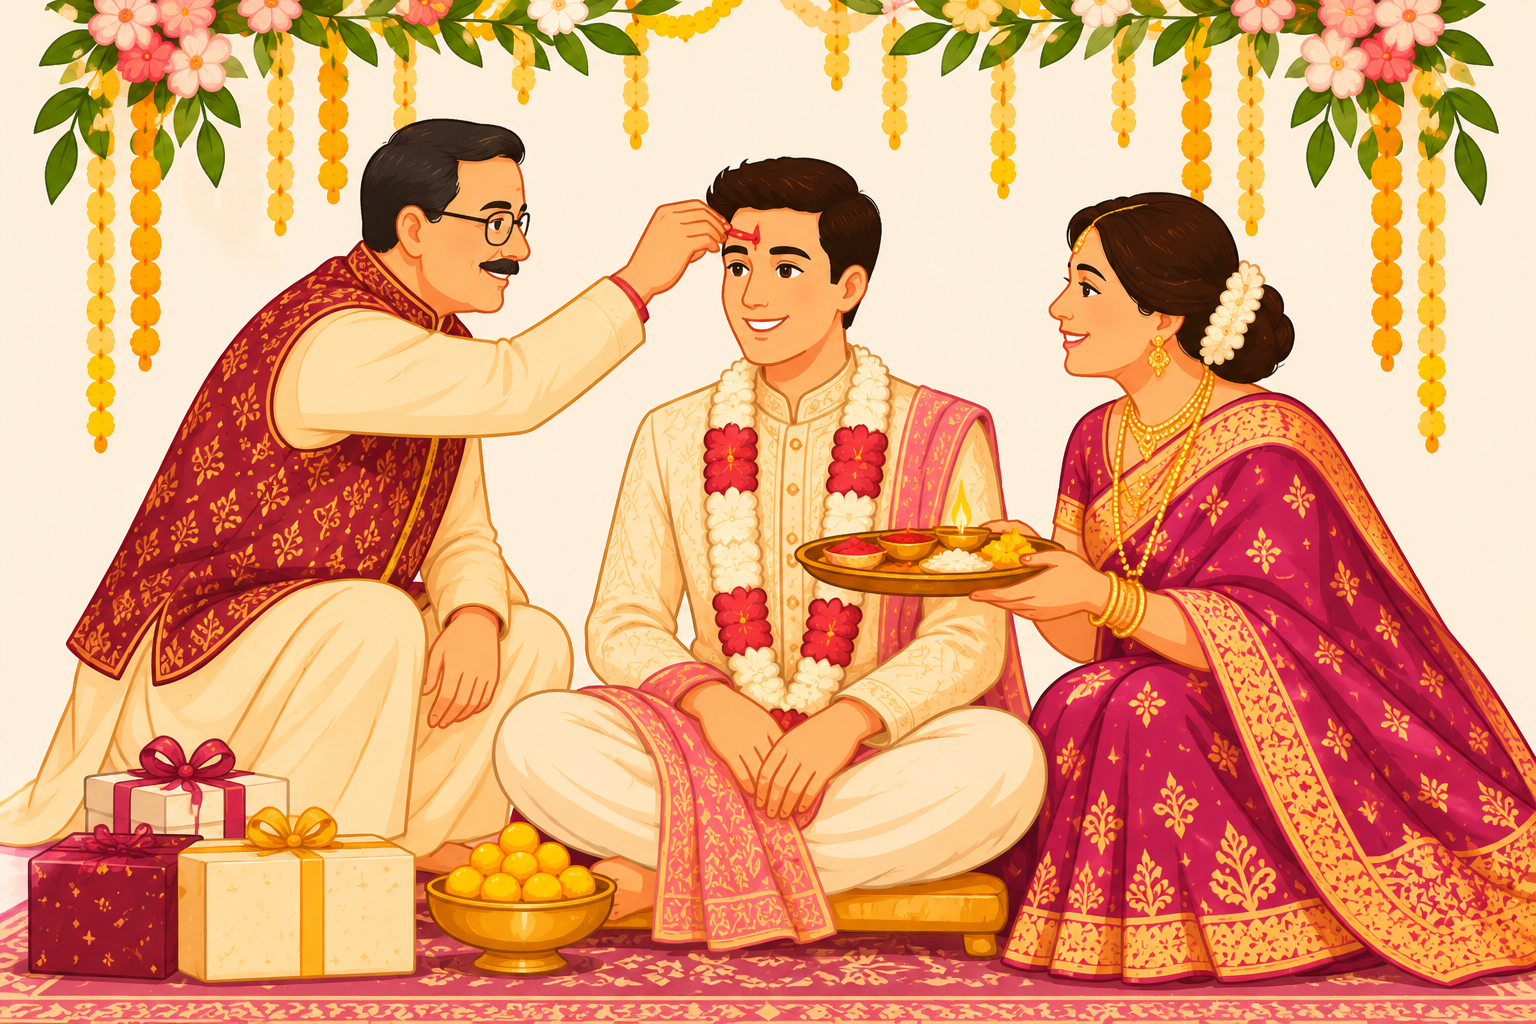
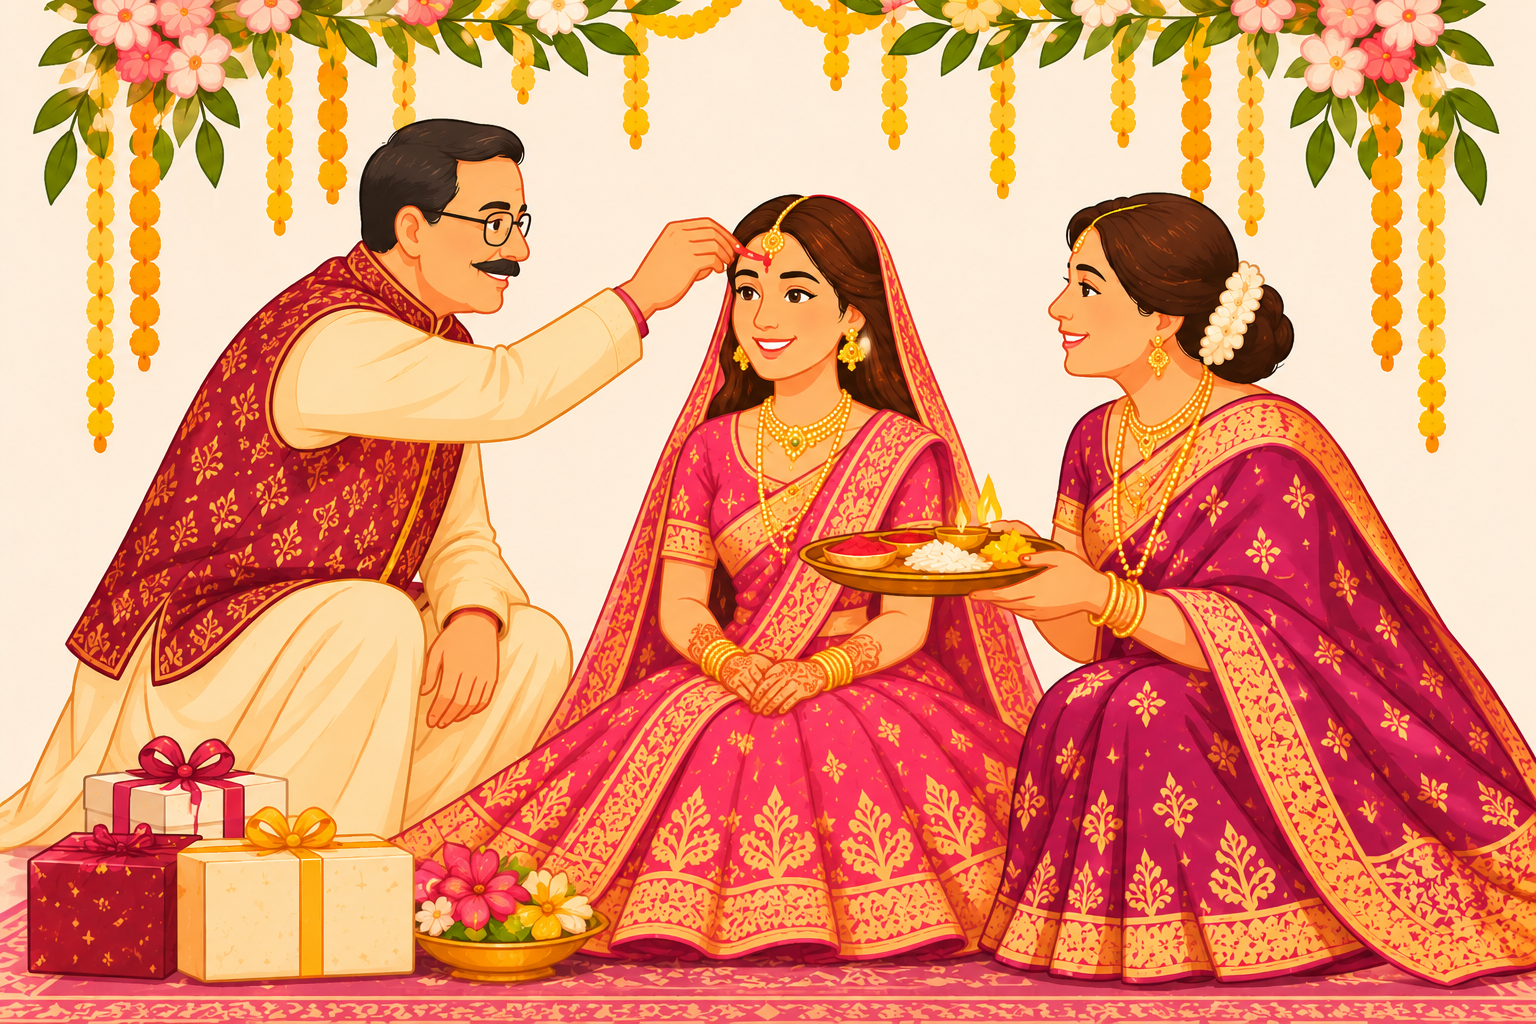
bride details

diff --git a/components/InvitationCover.tsx b/components/InvitationCover.tsx
@@ -39,7 +39,7 @@ export default function InvitationCover({ onOpen }: InvitationCoverProps) {
         <motion.div initial={{ opacity: 0, scale: 0.72 }} animate={{ opacity: [0, 0.7, 0.45, 0], scale: [0.72, 1, 1.08, 1.15] }} transition={{ duration: 2.8, delay: 0.15, ease: "easeOut" }} className="absolute h-32 w-32 sm:h-40 sm:w-40">
           <span className="absolute left-1/2 top-0 h-20 w-12 -translate-x-1/2 rounded-[60%_40%_60%_40%] bg-[#E7BDB2]/60 sm:h-24 sm:w-14" /><span className="absolute left-1 top-1/2 h-20 w-12 -translate-y-1/2 rotate-[-72deg] rounded-[60%_40%_60%_40%] bg-[#E1B2A7]/60 sm:h-24 sm:w-14" /><span className="absolute right-1 top-1/2 h-20 w-12 -translate-y-1/2 rotate-[72deg] rounded-[60%_40%_60%_40%] bg-[#E1B2A7]/60 sm:h-24 sm:w-14" /><span className="absolute bottom-0 left-1/2 h-20 w-12 -translate-x-1/2 rotate-180 rounded-[60%_40%_60%_40%] bg-[#D6A094]/60 sm:h-24 sm:w-14" /><span className="absolute left-1/2 top-1/2 h-5 w-5 -translate-x-1/2 -translate-y-1/2 rounded-full bg-[#B9795E]/75 sm:h-6 sm:w-6" />
         </motion.div>
-        <motion.div initial={{ opacity: 0, scale: 0.88, y: 18 }} animate={{ opacity: [0, 1, 1, 0], scale: [0.88, 1, 1, 1.02], y: [18, 0, 0, -18] }} transition={{ duration: 2.3, times: [0, 0.2, 0.72, 1], ease: "easeInOut" }} className="relative flex flex-col items-center"><div className="font-serif text-7xl font-light tracking-[-0.12em] text-[#704636] sm:text-8xl">AA</div><span className="mt-3 h-px w-14 bg-[#9A654D]/70" /><div className="mt-5 font-serif text-2xl font-light tracking-wide text-[#5D4034] sm:text-3xl">Ayush + Ayushi</div></motion.div>
+        <motion.div initial={{ opacity: 0, scale: 0.88, y: 18 }} animate={{ opacity: [0, 1, 1, 0], scale: [0.88, 1, 1, 1.02], y: [18, 0, 0, -18] }} transition={{ duration: 2.3, times: [0, 0.2, 0.72, 1], ease: "easeInOut" }} className="relative flex flex-col items-center"><div className="font-serif text-7xl font-light tracking-[-0.12em] text-[#704636] sm:text-8xl">AA</div><span className="mt-3 h-px w-14 bg-[#9A654D]/70" /><div className="mt-5 font-serif text-2xl font-light tracking-wide text-[#5D4034] sm:text-3xl">Ayushi + Ayush</div></motion.div>
       </div>
       <motion.div initial={{ y: 0 }} animate={{ y: "-100%" }} transition={{ delay: 1.0, duration: 1.8, ease: [0.65, 0, 0.35, 1] }} className="absolute inset-0 -z-10 bg-[#2A211D]" />
     </div>}
@@ -68,7 +68,7 @@ export default function InvitationCover({ onOpen }: InvitationCoverProps) {
       <motion.div initial={{ opacity: 0, scale: .82 }} animate={{ opacity: 1, scale: 1 }} transition={{ delay: .55, duration: .9, ease: "easeOut" }} className="relative mx-auto mt-8 flex h-32 w-44 items-center justify-center sm:h-36 sm:w-48" aria-label="A R monogram"><div className="relative flex items-center justify-center -translate-x-1"><span className="font-serif text-[92px] font-light leading-none tracking-[-0.16em] text-[#F3D6C4] drop-shadow-lg sm:text-[108px]">A</span><span className="-ml-3 font-serif text-[92px] font-light leading-none tracking-[-0.16em] text-[#D8A98A]/95 drop-shadow-lg sm:text-[108px]">A</span></div><span className="absolute bottom-0 left-1/2 h-px w-14 -translate-x-1/2 bg-[#E7CDBE]/70" /></motion.div>
       <motion.p initial={{ opacity: 0, y: 8 }} animate={{ opacity: 1, y: 0 }} transition={{ delay: 1.05, duration: .8 }} className="mt-6 w-full text-center font-script text-3xl leading-none text-[#F2DED2] sm:text-4xl">to celebrate our forever</motion.p>
       <motion.div initial={{ opacity: 0, scaleX: .2 }} animate={{ opacity: 1, scaleX: 1 }} transition={{ delay: 1.25, duration: .7 }} className="mx-auto mt-7 mb-7 flex w-full items-center justify-center gap-3"><span className="h-px w-10 bg-[#D8A98A]/55" /><span className="text-xs text-[#E7CDBE]">♡</span><span className="h-px w-10 bg-[#D8A98A]/55" /></motion.div>
-      <motion.h1 initial={{ opacity: 0, y: 15 }} animate={{ opacity: 1, y: 0 }} transition={{ delay: 1.4, duration: .8 }} className="w-full text-center font-serif text-4xl font-light tracking-wide text-[#FFF8F2] sm:text-6xl"><span>Ayush</span><span className="mx-3 font-light text-[#D8A98A] sm:mx-5">+</span><span>Ayushi</span></motion.h1>
+      <motion.h1 initial={{ opacity: 0, y: 15 }} animate={{ opacity: 1, y: 0 }} transition={{ delay: 1.4, duration: .8 }} className="w-full text-center font-serif text-4xl font-light tracking-wide text-[#FFF8F2] sm:text-6xl"><span>Ayushi</span><span className="mx-3 font-light text-[#D8A98A] sm:mx-5">+</span><span>Ayush</span></motion.h1>
       <motion.button type="button" disabled={opening} initial={{ opacity: 0, y: 15 }} animate={{ opacity: 1, y: 0 }} transition={{ delay: 1.85, duration: .7 }} onClick={openInvitation} className="mt-12 rounded-full border border-[#F2DED2]/70 bg-[#FFF8F2]/95 px-8 py-3 text-[10px] tracking-[.3em] text-[#5D4034] shadow-2xl transition hover:scale-105 hover:bg-white disabled:pointer-events-none">OPEN INVITATION · ♫</motion.button>
     </div></motion.div>
   </motion.div>}</AnimatePresence>;

diff --git a/components/Footer.tsx b/components/Footer.tsx
@@ -15,12 +15,12 @@ export default function Footer() {
         <motion.div initial={{ opacity: 0, y: 30 }} whileInView={{ opacity: 1, y: 0 }} viewport={{ once: true, margin: "-50px" }} transition={{ duration: 1.2 }}>
           <h2 className="font-script text-5xl sm:text-6xl lg:text-7xl text-amber-100/90 font-normal leading-tight drop-shadow-md">With lots of love</h2>
           <div className="my-6 flex items-center justify-center space-x-3 text-white/50"><span className="h-px w-16 bg-white/20"></span><Heart size={16} className="fill-amber-200/80 text-amber-200/80" /><span className="h-px w-16 bg-white/20"></span></div>
-          <p className="font-serif text-3xl sm:text-4xl tracking-widest text-[#FAF7F2]">Ayush <span className="text-amber-700/90 mx-2 font-sans text-xl">&amp;</span> Ayushi</p>
+          <p className="font-serif text-3xl sm:text-4xl tracking-widest text-[#FAF7F2]">Ayushi <span className="text-amber-700/90 mx-2 font-sans text-xl">&amp;</span> Ayush</p>
           <div className="mt-12 pt-8 border-t border-white/10 flex flex-col sm:flex-row items-center justify-between text-xs text-stone-400 space-y-4 sm:space-y-0">
-            <p className="font-light">© 2027 Ayush &amp; Ayushi. All rights reserved.</p>
+            <p className="font-light">© 2027 Ayushi &amp; Ayush. All rights reserved.</p>
             <div className="flex items-center space-x-6">
               <a href={`mailto:${weddingConfig.contactEmail}`} className="hover:text-white transition-colors flex items-center space-x-1" aria-label="Email couple"><Mail size={14} /><span>Contact Us</span></a>
-              <button onClick={() => { if (navigator.share) { navigator.share({ title: "Ayush & Ayushi Wedding", url: window.location.href }); } else { navigator.clipboard.writeText(window.location.href); alert("Wedding invitation link copied to clipboard!"); } }} className="hover:text-white transition-colors flex items-center space-x-1"><Share2 size={14} /><span>Share Invitation</span></button>
+              <button onClick={() => { if (navigator.share) { navigator.share({ title: "Ayushi & Ayush Wedding", url: window.location.href }); } else { navigator.clipboard.writeText(window.location.href); alert("Wedding invitation link copied to clipboard!"); } }} className="hover:text-white transition-colors flex items-center space-x-1"><Share2 size={14} /><span>Share Invitation</span></button>
             </div>
           </div>
         </motion.div>

diff --git a/config/wedding.ts b/config/wedding.ts
@@ -38,6 +38,20 @@ export const weddingConfig = {
   backgroundAudio: "/audio/background-music.mp3",
   events: [
     {
+      id: "Lagun Tika",
+      name: "Lagun Tika Ceremony",
+      date: "2026-12-09",
+      time: "9:30 AM",
+      location: "Vedantam",
+      addressDetails: "D203, manglam shila, Dayalbagh, Agra",
+      dressCode: "Indian Ethnic Wear",
+      googleMapsUrl: "https://maps.app.goo.gl/JZq4Swkkz2gu26fy8?g_st=ic",
+      image: "/images/event-lagun-tika.png",
+      iconName: "flower",
+      description:
+        "An elegant celebration of beautiful Mehendi designs, traditions, music, and joyful moments with loved ones.",
+    },
+    {
     id: "haldi",
     name: "Haldi Ceremony",
     date: "2026-12-10",
@@ -52,22 +66,8 @@ export const weddingConfig = {
       "A joyful traditional Haldi ceremony filled with blessings, laughter, and beautiful moments with family and friends.",
   },
   {
-    id: "Lagun Tika",
-    name: "Lagun Tika Ceremony",
-    date: "2026-12-10",
-    time: "07:00 PM",
-    location: "Vedantam",
-    addressDetails: "Fatehabad Rd, near Narayanam Garden, Pushpanjali Phase 3, Tora, Tajganj, Agra",
-    dressCode: "Indian Ethnic Wear",
-    googleMapsUrl: "https://maps.app.goo.gl/psoDj4fh1Hi6s7D37?g_st=aw",
-    image: "/images/event-lagun-tika.png",
-    iconName: "flower",
-    description:
-      "An elegant celebration of beautiful Mehendi designs, traditions, music, and joyful moments with loved ones.",
-  },
-  {
     id: "Sangeet",
-    name: "Sangeeth Ceremony",
+    name: "Sangeet Ceremony",
     date: "2026-12-10",
     time: "8:00 PM onwards",
     location: "Vedantam",

diff --git a/components/Hero.tsx b/components/Hero.tsx
@@ -84,7 +84,7 @@ export default function Hero() {
           </p>
 
           <p className="mt-4 font-script text-2xl sm:text-3xl text-[#873B2B]">
-            Ayush + Ayushi ♡
+            Ayushi + Ayush ♡
           </p>
 
           <h1 className="mt-4 font-serif text-3xl sm:text-4xl font-light leading-[1.1] tracking-wide text-[#593727]">
@@ -108,7 +108,7 @@ export default function Hero() {
             </p>
 
             <p className="mt-2 font-serif text-sm sm:text-base text-[#593727]">
-              Late Mahavir Prasad Goyal & Late Kanta Devi
+              Mr Prahlad Kumar & Mrs Jainmati Devi
             </p>
 
             {/* Parents */}
@@ -118,7 +118,7 @@ export default function Hero() {
               </p>
 
               <p className="mt-2 font-serif text-sm sm:text-base text-[#593727]">
-                Mr. Anup Goyal & Mrs. Babita Goyal
+                Mr. Raju Agarwal & Mrs. Seema Agarwal
               </p>
             </div>
 
